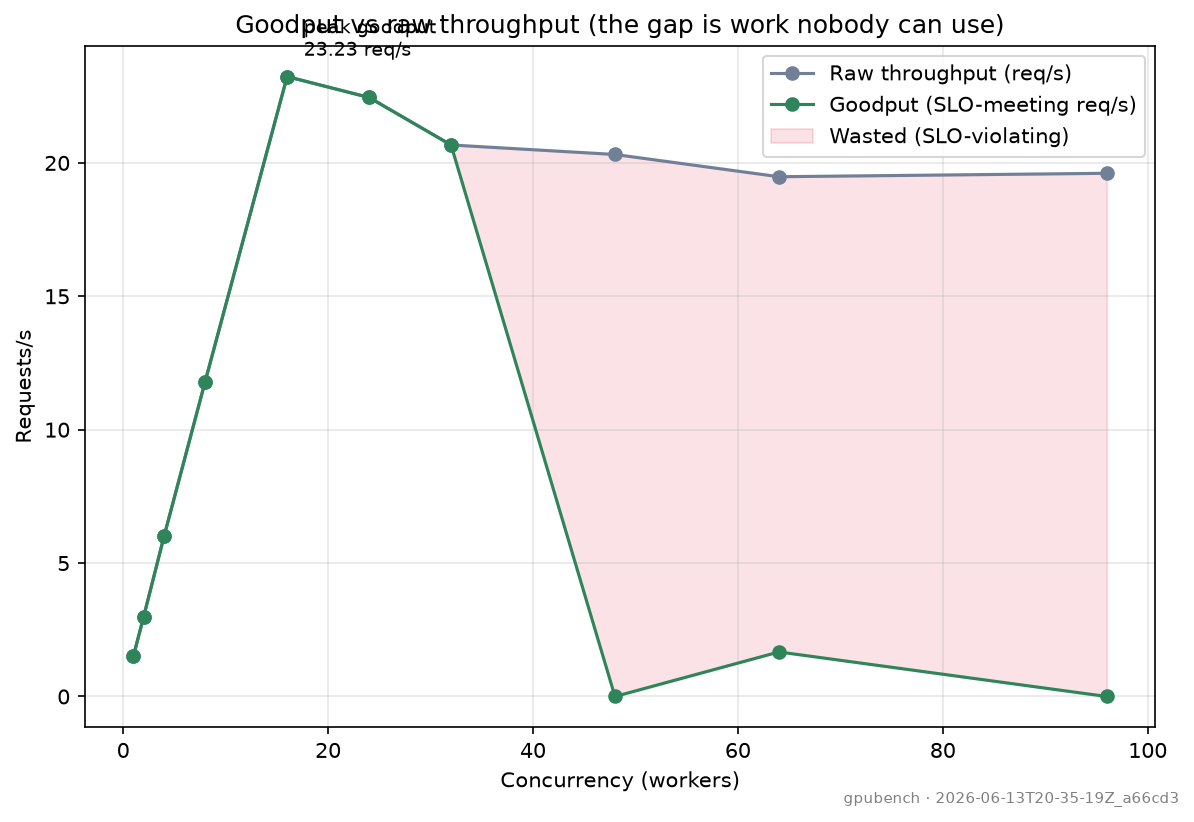
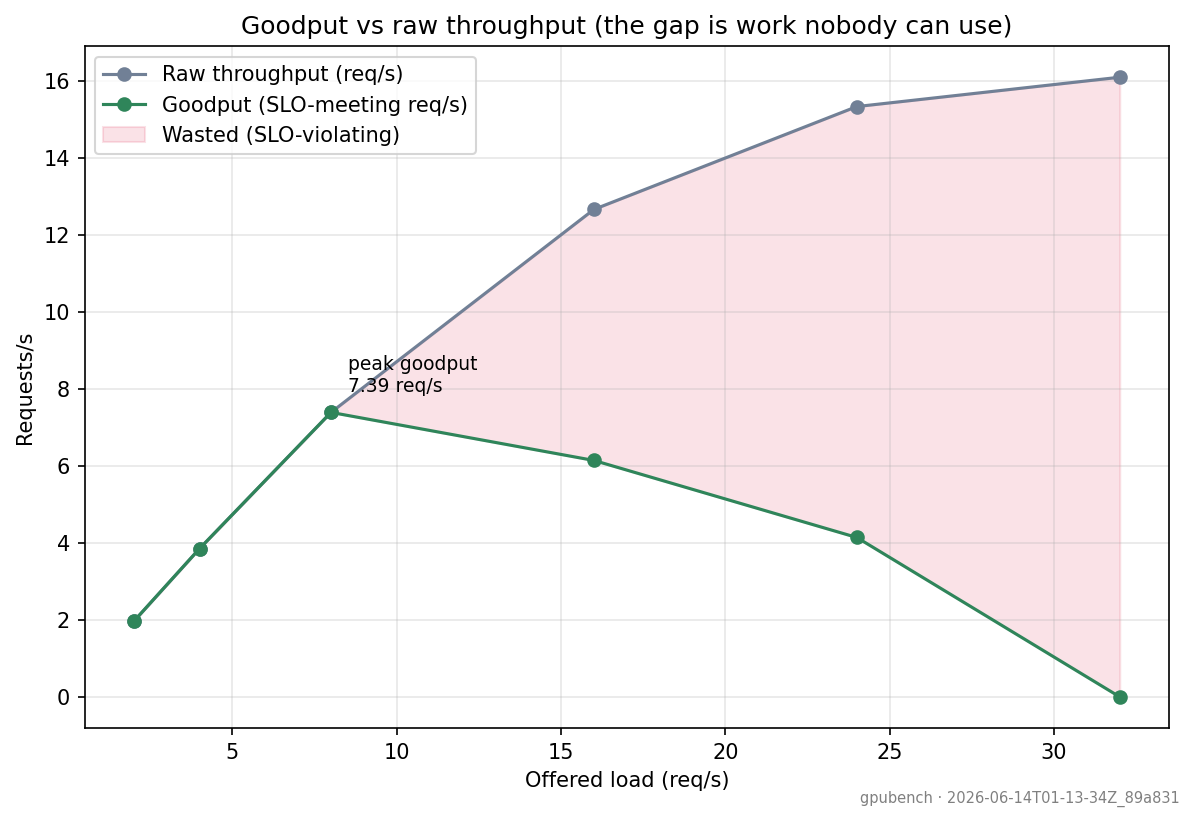
docs: add Results section with real A100 numbers + corrected plots
Single-A100 Llama-3.1-8B sweep, cross-validated against vllm bench serve to within ~1-6%. Replace the mock sample plots with the real (post-pool-fix) ones and write the findings in plain prose: ~16 req/s ceiling, ~7 req/s useful capacity under SLO, decode/memory-bandwidth-bound, and the cross-check that caught the connection-pool bug.

diff --git a/README.md b/README.md
@@ -1,20 +1,69 @@
-# llm_inference_benchmarking — `gpubench`
+# llm_inference_benchmarking (`gpubench`)
 
-A **single-GPU LLM inference benchmarking harness** for [vLLM](https://docs.vllm.ai).
-It drives a vLLM OpenAI-compatible server with a *coordinated-omission-correct*
-load generator, correlates serving latency with GPU telemetry, finds the
-**latency–throughput knee**, and cross-checks every number against vLLM's own
-`vllm bench serve` as a reference oracle.
+A benchmarking harness for LLM inference on a single GPU. It starts a vLLM server,
+throws traffic at it with a load generator I wrote, watches the card with
+nvidia-smi, and works out how hard you can push one GPU before latency falls apart.
 
-It is built as a **measurement instrument**: the design assumes that *wrong
-numbers are worse than no numbers*, so the subtle, credibility-defining details
-(coordinated omission, the exact TPOT formula, the current vLLM `/metrics` names,
-the GQA KV-cache math) are gotten right and pinned by tests.
+I built it to learn inference serving properly. Anyone can call an LLM API; far
+fewer people can tell you how many users one GPU actually handles, or explain why
+it slows down. That was the skill I wanted.
 
-> New to LLM serving? Read [`TEACHING.md`](TEACHING.md) first — it explains the
-> whole thing from zero using one running analogy (a restaurant kitchen).
+The rule I held myself to was that the numbers have to be right, because a
+benchmark that lies is worse than no benchmark. So every metric gets cross-checked
+against vLLM's own `vllm bench serve`, and the math is pinned down with tests.
 
-![GPU saturation example](docs/sample_gpu_saturation.png)
+If you're new to this, start with [TEACHING.md](TEACHING.md). It explains the whole
+thing from scratch using a restaurant-kitchen analogy.
+
+![Latency vs throughput on an A100](docs/sample_pareto_knee.png)
+
+---
+
+## Results
+
+I ran this on a single A100 (through Colab) against Llama-3.1-8B with 512-token
+prompts and 128-token outputs, sweeping the request rate from 2 to 32 per second.
+Then I pointed vLLM's own `vllm bench serve` at the same server to check my work.
+The two agreed to within about 1 to 6 percent, so I'm confident the harness is
+measuring what it should.
+
+| Offered req/s | Achieved | TTFT p99 | TPOT p99 | Output tok/s | Goodput | KV-cache |
+|---:|---:|---:|---:|---:|---:|---:|
+| 2  | 1.96  | 101 ms  | 17 ms | 251  | 1.96 | 4%  |
+| 4  | 3.85  | 112 ms  | 20 ms | 493  | 3.85 | 6%  |
+| 8  | 7.39  | 160 ms  | 27 ms | 945  | 7.39 | 13% |
+| 16 | 12.65 | 317 ms  | 67 ms | 1620 | 6.14 | 52% |
+| 24 | 15.33 | 689 ms  | 79 ms | 1962 | 4.14 | 74% |
+| 32 | 16.09 | 1970 ms | 82 ms | 2059 | 0.00 | 76% |
+
+Goodput is the number of requests per second that met an SLO of TTFT under 1s and
+TPOT under 50ms.
+
+A few things this tells you:
+
+The server maxes out around 16 requests per second, or roughly 2,000 output tokens
+a second. You can offer more than that, but you don't get more work out the other
+end, you just pay for it in latency.
+
+The useful capacity is lower than the raw number. Holding it to the SLO above, you
+get about 7 req/s before requests start missing the deadline. After that, per-token
+latency drifts past 50ms and goodput falls off fast, all the way to zero at 32 req/s.
+
+What's actually slowing it down is the decode step, not request queueing and not
+running out of KV-cache memory. First-token latency stays low (under 350ms even at
+16 req/s) and the KV cache never fills up, topping out around 76%. The giveaway is
+on the GPU itself: it sits at about 89% utilization but power holds around 350W,
+well under the card's limit. That is what a memory-bandwidth-bound decode looks like.
+
+One more thing, because it was the most useful lesson of the whole project. My first
+run reported TTFT about five times too high, and I only caught it because I compared
+against vLLM's official tool. The problem wasn't the server at all. It was my load
+generator's HTTP connection pool being too small, so requests were piling up on my
+side before they ever reached vLLM. Once I sized the pool correctly everything lined
+up. That is the entire reason you cross-check your own numbers against something you
+already trust.
+
+![GPU utilization, KV-cache and power under load](docs/sample_gpu_saturation.png)
 
 ---
 
